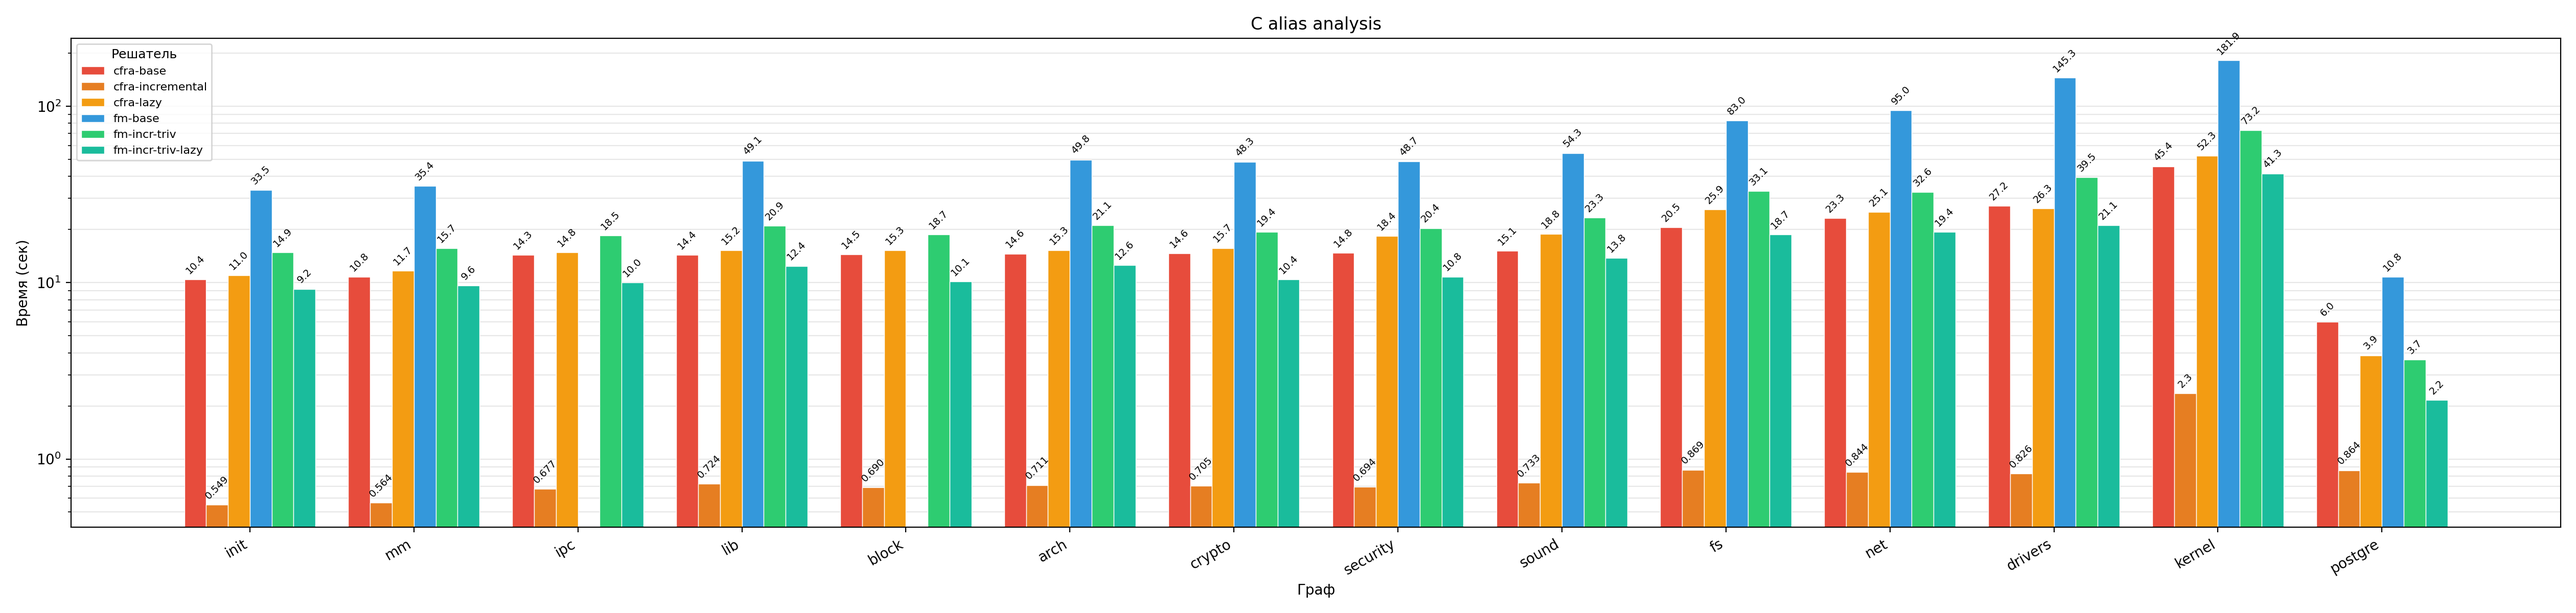
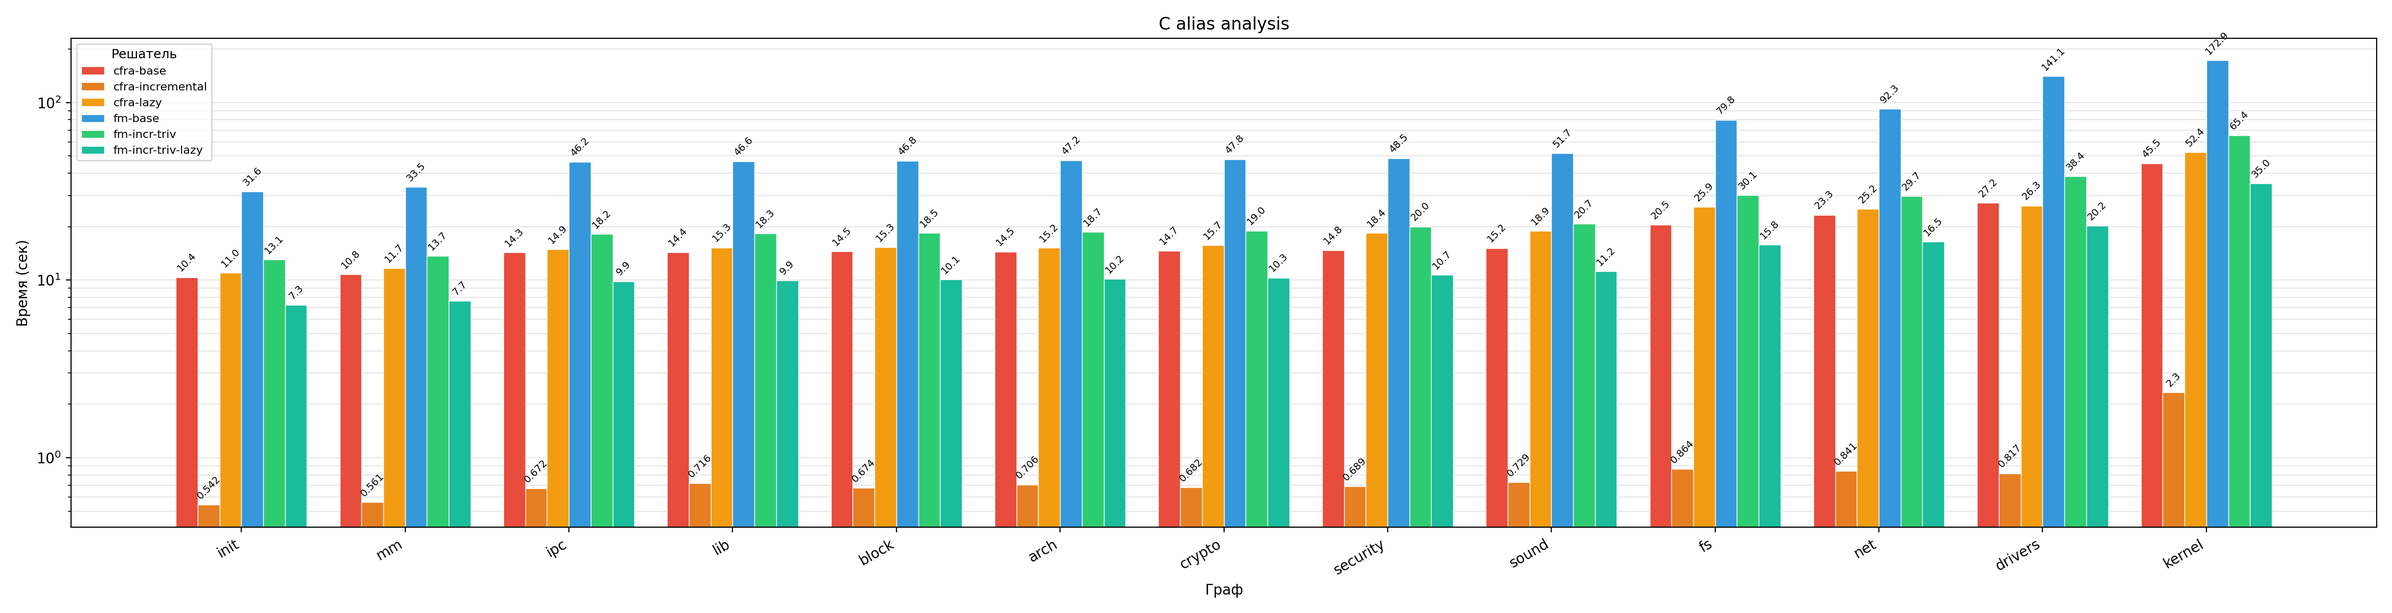
Add result analize and benchmark dataset information to README.md

diff --git a/README.md b/README.md
@@ -2,7 +2,7 @@
 
 **CFRA** (Context-Free Reachability Analyzer) is a GPU-accelerated solver for the Context-Free Language Reachability (CFL-R) problem, based on sparse Boolean linear algebra operations. It uses the [cuBool](https://github.com/SparseLinearAlgebra/cuBool) library to perform matrix operations on NVIDIA CUDA.
 
-The implementation is based on the matrix CFL-reachability algorithm by R. Azimov and optimizations proposed by I. Muravev.
+The implementation is based on the matrix CFL-reachability algorithm by [R. Azimov](https://doi.org/10.1145/3210259.3210264) and optimizations proposed by [I. Muravev](https://github.com/FormalLanguageConstrainedPathQuerying/CFPQ_PyAlgo).
 
 ## Features
 
@@ -109,6 +109,91 @@ The benchmark system allows automatic comparison of CFRA with other solvers:
 ./bench/bench.sh --config bench/bench_config.sh --runs 3
 ```
 
+## Experimental Comparison
+
+### Solvers
+
+I compare **CFRA** (this project) against **[FastMatrix](https://github.com/FormalLanguageConstrainedPathQuerying/CFPQ_PyAlgo)** - the optimized matrix CFL-reachability solver by I. Muravev.
+
+| Solver | Language | Linear algebra backend
+| --- | --- | --- 
+| **CFRA** (cfra) | C++ | [cuBool](https://github.com/SparseLinearAlgebra/cuBool) (CUDA GPU)
+| **FastMatrix** (fm) | Python | [SuiteSparse:GraphBLAS](https://github.com/DrTimothyAldenDavis/GraphBLAS) (CPU)
+
+Configurations compared:
+
+| Config name | Optimizations enabled
+| --- | ---
+| `cfra-base` | None 
+| `cfra-incr` | Incremental + trivial operations
+| `cfra-incr-lazy` | Incremental + trivial operations + lazy add
+| `fm-base` | None
+| `fm-incr-triv` | Incremental + trivial operations
+| `fm-incr-triv-lazy` | Incremental + trivial operations + lazy add
+
+## Datasets
+
+I use the [CFPQ_Data](https://github.com/FormalLanguageConstrainedPathQuerying/CFPQ_Data) and [CPU17](https://github.com/kisslune/CPU17-graphs) datasets, which used to benchmark original I. Muravev algorithm optimizations [Muravev](https://github.com/FormalLanguageConstrainedPathQuerying/CFPQ_PyAlgo). The dataset contains four groups of graphs, each paired with a corresponding grammar:
+
+### Java - field-sensitive points-to analysis (15 graphs)
+
+| Graph          | Vertices   | Edges      | #SEdges     |
+|----------------|------------|------------|-------------|
+| lsearch        | 15,774     | 29,988     | 9,242       |
+| sunflow        | 15,464     | 31,914     | 16,354      |
+| gson           | 14,114     | 34,934     | 56,325      |
+| commons_io     | 26,188     | 62,428     | 24,020      |
+| luindex        | 18,532     | 34,750     | 9,677       |
+| eclipse        | 41,383     | 80,400     | 21,830      |
+| avrora         | 24,690     | 50,392     | 21,532      |
+| batik          | 60,175     | 126,178    | 45,968      |
+| commons_lang3  | 40,970     | 96,854     | 27,553      |
+| h2             | 44,717     | 113,366    | 92,038      |
+| mockito        | 25,436     | 62,388     | 16,169      |
+| fop            | 86,183     | 166,032    | 76,615      |
+| tomcat         | 111,327    | 221,768    | 82,424      |
+| xalan          | 58,476     | 125,516    | 52,382      |
+| pmd            | 54,444     | 118,658    | 60,518      |
+
+### C alias - field-insensitive alias analysis (14 graphs)
+
+| Graph    | Vertices   | Edges            | #SEdges                |
+|----------|------------|------------------|------------------------|
+| init     | 2 446 224  | 4 225 618        | 3 783 769              |
+| mm       | 2 538 243  | 4 382 158        | 3 990 305              |
+| ipc      | 3 401 022  | 5 862 996        | 5 249 389              |
+| lib      | 3 401 355  | 5 863 760        | 5 276 303              |
+| block    | 3 423 234  | 5 902 786        | 5 351 409              |
+| arch     | 3 448 422  | 5 940 484        | 5 339 563              |
+| crypto   | 3 464 970  | 5 976 774        | 5 428 237              |
+| security | 3 479 982  | 6 006 652        | 5 593 387              |
+| sound    | 3 528 861  | 6 099 464        | 6 085 269              |
+| fs       | 4 177 416  | 7 218 746        | 9 646 475              |
+| net      | 4 039 470  | 7 000 282        | 8 833 403              |
+| drivers  | 4 273 803  | 7 415 538        | 18 825 025             |
+| kernel   | 11 254 434 | 18 968 426       | 16 747 731             |
+
+### RDF - same-level concept search (4 graphs)
+
+| Graph      | Vertices | Edges     | #SEdges   |
+|------------|----------|-----------|-----------|
+| go_h       | 45007    | 980218    | 588976    |
+| eclass     | 239111   | 720496    | 90994     |
+| go         | 582929   | 2874874   | 640316    |
+| taxonomy   | 5728398  | 29844250  | 151706    |
+
+### VF - context-sensitive data flow analysis (5 graphs)
+
+| Graph    | Vertices | Edges     | #SEdges       |
+|----------|----------|-----------|---------------|
+| xz       | 30 492   | 37 173    | 358 834       |
+| nab      | 31 215   | 37 484    | 739 646       |
+| leela    | 47 665   | 63 996    | 662 466       |
+| parest   | 233 900  | 307 850   | 1 342 540     |
+| x264     | 138 702  | 201 034   | 20 259 480    |
+
+These datasets were chosen because they cover the four main application domains of CFL-reachability in static analysis.
+
 ## Performance
 
 Benchmarked on: PC with Ubuntu 22.04, Intel Core i5-11400f 2.6GHz CPU, DDR4 16Gb RAM, Nvidia RTX 3050 GPU with 8Gb VRAM. 
@@ -117,6 +202,16 @@ Benchmarked on: PC with Ubuntu 22.04, Intel Core i5-11400f 2.6GHz CPU, DDR4 16Gb
 ![c_alias](docs/pictures/c_alias.png)
 ![rdf](docs/pictures/rdf.png)
 ![vf](docs/pictures/vf.png)
+
+### Performance Analysis
+
+**C alias analysis (small grammar, large matrices):** CFRA consistently outperforms FastMatrix by **2-12x**. The grammar has only 12 fixed rules, so each iteration performs a small number of large MxM operations on matrices with millions of nonzeros - the ideal workload for GPU parallelism.
+
+**Java points-to analysis (template grammar, ~858 indices):** CFRA is **1.5-2x slower** than FastMatrix. The template grammar expands to hundreds of indexed rules, resulting in hundreds of individual MxM calls per iteration on very sparse matrices. Each cuBool kernel launch incurs a fixed overhead (~10-50 us) that dominates when the actual computation takes microseconds. The planned **block matrix optimization** ([Muravev](https://github.com/FormalLanguageConstrainedPathQuerying/CFPQ_PyAlgo), Section 3.7) addresses this by replacing hundreds of small MxM calls with a single large block-matrix multiplication.
+
+**VF - context-sensitive data flow (template grammar, moderate indices):** CFRA is **2-8x faster** than the FastMatrix baseline. The template grammar (`call_i` / `ret_i`) has fewer indices than Java points-to, so GPU kernel launch overhead is less critical.
+
+**RDF (small grammar, very sparse matrices):** FastMatrix is **1.5-4x faster**. Despite the simple grammar (2-3 rules), matrices are extremely sparse, so individual operations are too lightweight for GPU parallelism to compensate for kernel dispatch overhead.
 
 ## Project Structure
 
@@ -136,3 +231,15 @@ cfra
 ├── test_data                          - small test grammars and graphs
 └── CMakeLists.txt
 ```
+
+## References
+
+* Azimov R. - [Context-free path querying by matrix multiplication](https://doi.org/10.1145/3210259.3210264)
+* Muravev I. - Optimization of a context-free reachability algorithm based on linear algebra operations. [Repository](https://github.com/FormalLanguageConstrainedPathQuerying/CFPQ_PyAlgo)
+* [cuBool](https://github.com/SparseLinearAlgebra/cuBool) - sparse Boolean linear algebra library for NVIDIA CUDA
+* [SuiteSparse:GraphBLAS](https://github.com/DrTimothyAldenDavis/GraphBLAS) - library used in FastMatrix
+* [CFPQ_Data](https://github.com/FormalLanguageConstrainedPathQuerying/CFPQ_Data) - benchmark dataset for CFL-reachability problems
+
+## Author
+
+Khromov Ivan, Saint Petersburg State University, 2025.
